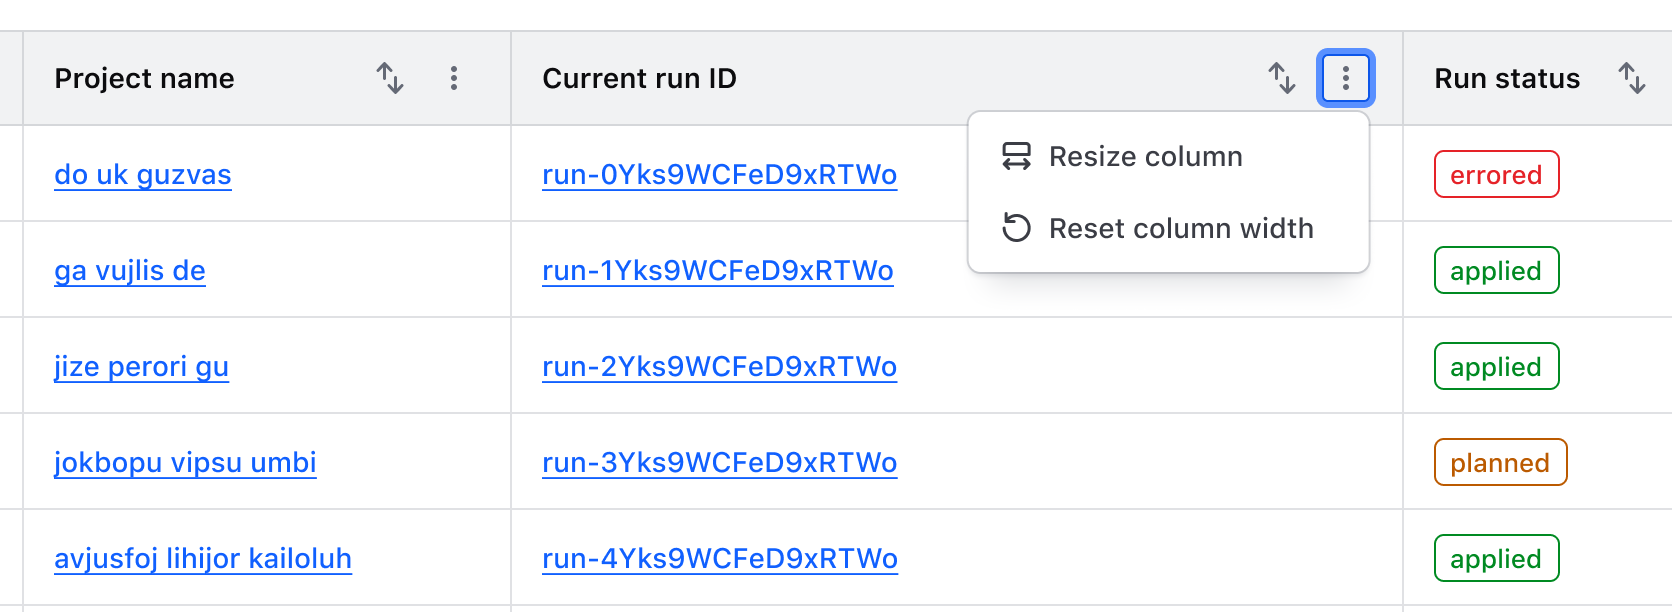
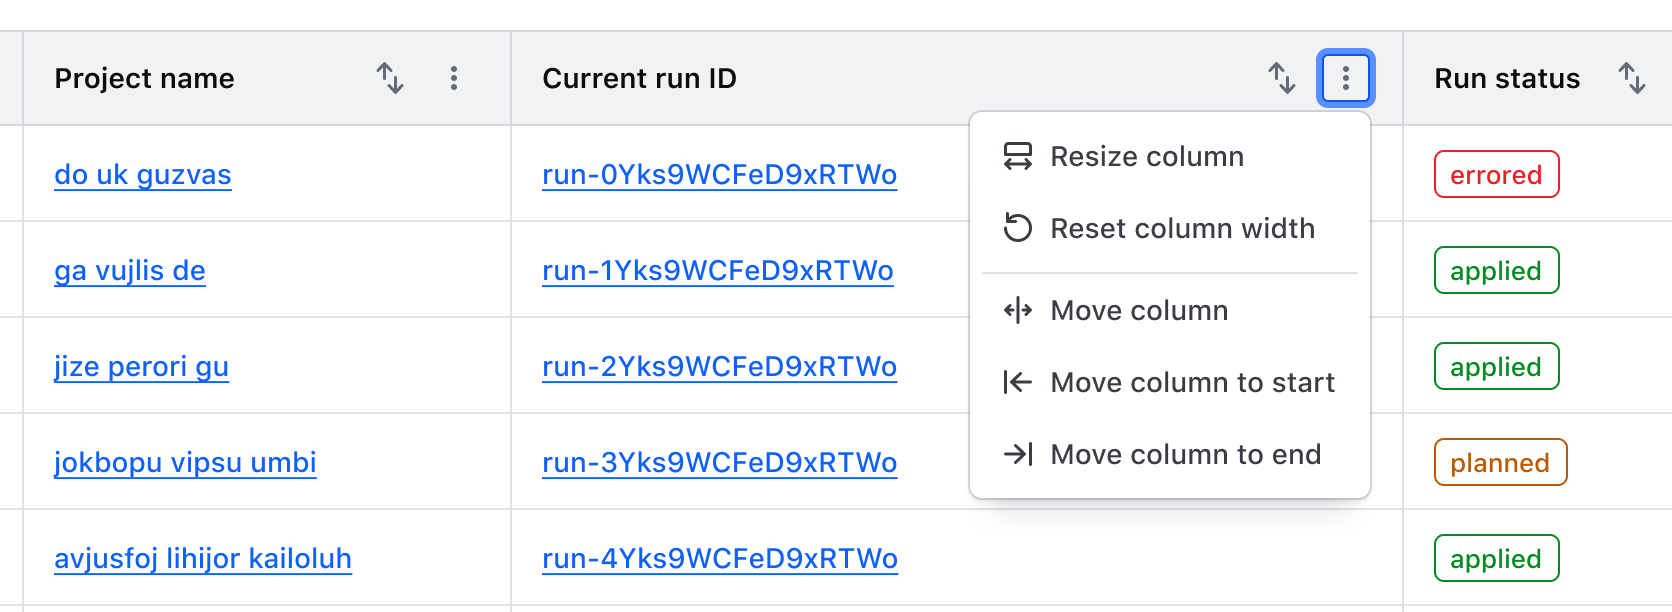
Adding reordering documentation and accompanying images

diff --git a/website/docs/components/table/advanced-table/partials/specifications/view-functions.md b/website/docs/components/table/advanced-table/partials/specifications/view-functions.md
@@ -1,0 +1,33 @@
+## Column resizing
+
+The Advanced Table supports resizing individual columns to display the entire contents of a cell.
+
+This is supported via an interactive "resize border" that functions either by clicking and dragging on the horizontal axis with a mouse or by moving the focus to the resize border with the keyboard and using the right and left arrow keys.
+
+The Figma component does not support this resizing feature. Instead, we publish a [Resize Border](https://www.figma.com/design/iweq3r2Pi8xiJfD9e6lOhF/HDS-Components-v2.0?m=auto&node-id=80647-127234&t=UHpPyO7erZKLy4SD-1) component and [Templates](https://www.figma.com/design/iweq3r2Pi8xiJfD9e6lOhF/HDS-Components-v2.0?m=auto&node-id=72039-5091&t=UHpPyO7erZKLy4SD-1) to use as a starting point for expressing this interaction.
+
+![The interactive resize border in its active state being dragged with a mouse](/assets/components/table/advanced-table/advanced-table-resize-interaction.png)
+
+### Minimum and maximum width
+
+To prevent a column from being resized beyond a reasonable amount, the Advanced Table enforces a default minimum and maximum width of `150px` and `800px`, respectively. These can be overridden via the [component API](/components/table/advanced-table?tab=code#advancedtable), if necessary.
+
+![An example of a column being resized to the minimum default width](/assets/components/table/advanced-table/advanced-table-resize-min-width.png)
+
+## Column reordering
+
+The Advanced Table supports reordering columns to customze the default visual order the data set is rendered in.
+
+This is supported via multiple entry points:
+
+- Hovering on the table header with a mouse and dragging the column with the drag target. When a drag event is detected, a drop target will be displayed to communicate where in the table the column will be rendered.
+- "Move column" within the context menu moves focus to the drag target allowing reordering left and right with the arrow keys.
+- "Move column to start/end" within the context menu will move the column either to the start or end of the table. These options are rendered _conditionally_, e.g., a column in the start/first position will not have an option to move to start because it already occupies that position.
+
+![An example of a mouse user hovering on the table header which displays the drag target](/assets/components/table/advanced-table/advanced-table-hover-table-header.png)
+
+![An example of a mouse user dragging a column to a new position in the table](/assets/components/table/advanced-table/advanced-table-drag-column.png)
+
+![An example of the drag target in its focused state, allowing the user to move the column left and right with the arrow keys.](/assets/components/table/advanced-table/advanced-table-focus-drag-target.png)
+
+In Figma, there is not a property to display the drag target directly within the component, instead we publish several components and [Templates](https://www.figma.com/design/iweq3r2Pi8xiJfD9e6lOhF/HDS-Components-v2.0?m=auto&node-id=72039-5091&t=UHpPyO7erZKLy4SD-1) to use as a starting point for expressing this interaction.

diff --git a/website/docs/components/table/advanced-table/partials/guidelines/guidelines.md b/website/docs/components/table/advanced-table/partials/guidelines/guidelines.md
@@ -120,15 +120,19 @@ Don’t center header labels or cell content within a table.
 
 !!!
 
-### Resizable columns
+### Column view functions
 
-If `hasResizableColumns` is set to true on the Ember component, users can customize the width of each column in the Advanced Table. These properties are not available within the Figma component, but we've provided [examples](https://www.figma.com/design/iweq3r2Pi8xiJfD9e6lOhF/HDS-Components-v2.0?m=auto&node-id=81060-291665&t=UHpPyO7erZKLy4SD-1) that you can copy and paste into your design files.
+The Advanced Table supports several methods and functions that allow the user to control how they view the data presented in the component, including resizing columns and reordering columns.
 
-When enabled, actions related to each function are rendered in a context menu in the table header. These functions are not customizable.
+When either `hasResizableColumns` or `hasReorderableColumns` is set to true on the Advanced Table, actions related to each function are rendered in a context menu in the table header. These functions are not customizable and are not available directly within the Figma component. Instead, we've provided [examples](https://www.figma.com/design/iweq3r2Pi8xiJfD9e6lOhF/HDS-Components-v2.0?m=auto&node-id=81060-291665&t=UHpPyO7erZKLy4SD-1) that you can copy and paste into your design files.
 
-![An example of the open context menu in the Advanced Table displaying an action to reset the width of the column](/assets/components/table/advanced-table/advanced-table-context-menu.png)
+Visit the [specifications](?tab=specifications#view-functions) for more details on this functionality.
 
-Visit the [specifications](?tab=specifications#column-resizing) tab for more details on this functionality.
+![An example of the open context menu in the Advanced Table displaying actions to control the width and order of the column](/assets/components/table/advanced-table/advanced-table-context-menu.png)
+
+#### Resiable columns
+
+#### Reordering columns
 
 ## Column and row span
 

diff --git a/website/docs/components/table/advanced-table/index.md b/website/docs/components/table/advanced-table/index.md
@@ -1,7 +1,7 @@
 ---
 title: Advanced Table
-description: 'Used to display complex, structured tabular data with advanced features.'
-caption: 'Used to display complex, structured tabular data with advanced features.'
+description: "Used to display complex, structured tabular data with advanced features."
+caption: "Used to display complex, structured tabular data with advanced features."
 links:
   figma: >-
     https://www.figma.com/design/iweq3r2Pi8xiJfD9e6lOhF/HDS-Components-v2.0?node-id=67216-35163&t=w8xQlWxzH7bwXLe2-1
@@ -39,7 +39,7 @@ status:
   @include "partials/specifications/anatomy.md"
   @include "partials/specifications/states.md"
   @include "partials/specifications/sticky-column.md"
-  @include "partials/specifications/resizing-columns.md"
+  @include "partials/specifications/view-functions.md"
 </section>
 
 <section data-tab="Accessibility">

diff --git a/website/docs/components/table/advanced-table/partials/code/how-to-use.md b/website/docs/components/table/advanced-table/partials/code/how-to-use.md
@@ -47,9 +47,9 @@ You can insert your own content into the `:body` block and the component will ta
 <Hds::AdvancedTable
   @model={{this.model.myDemoData}}
   @columns={{array
-    (hash label="Artist")
-    (hash label="Album")
-    (hash label="Year")
+    (hash key="artist" label="Artist")
+    (hash key="album" label="Album")
+    (hash key="year" label="Year")
   }}
 >
   <:body as |B|>
